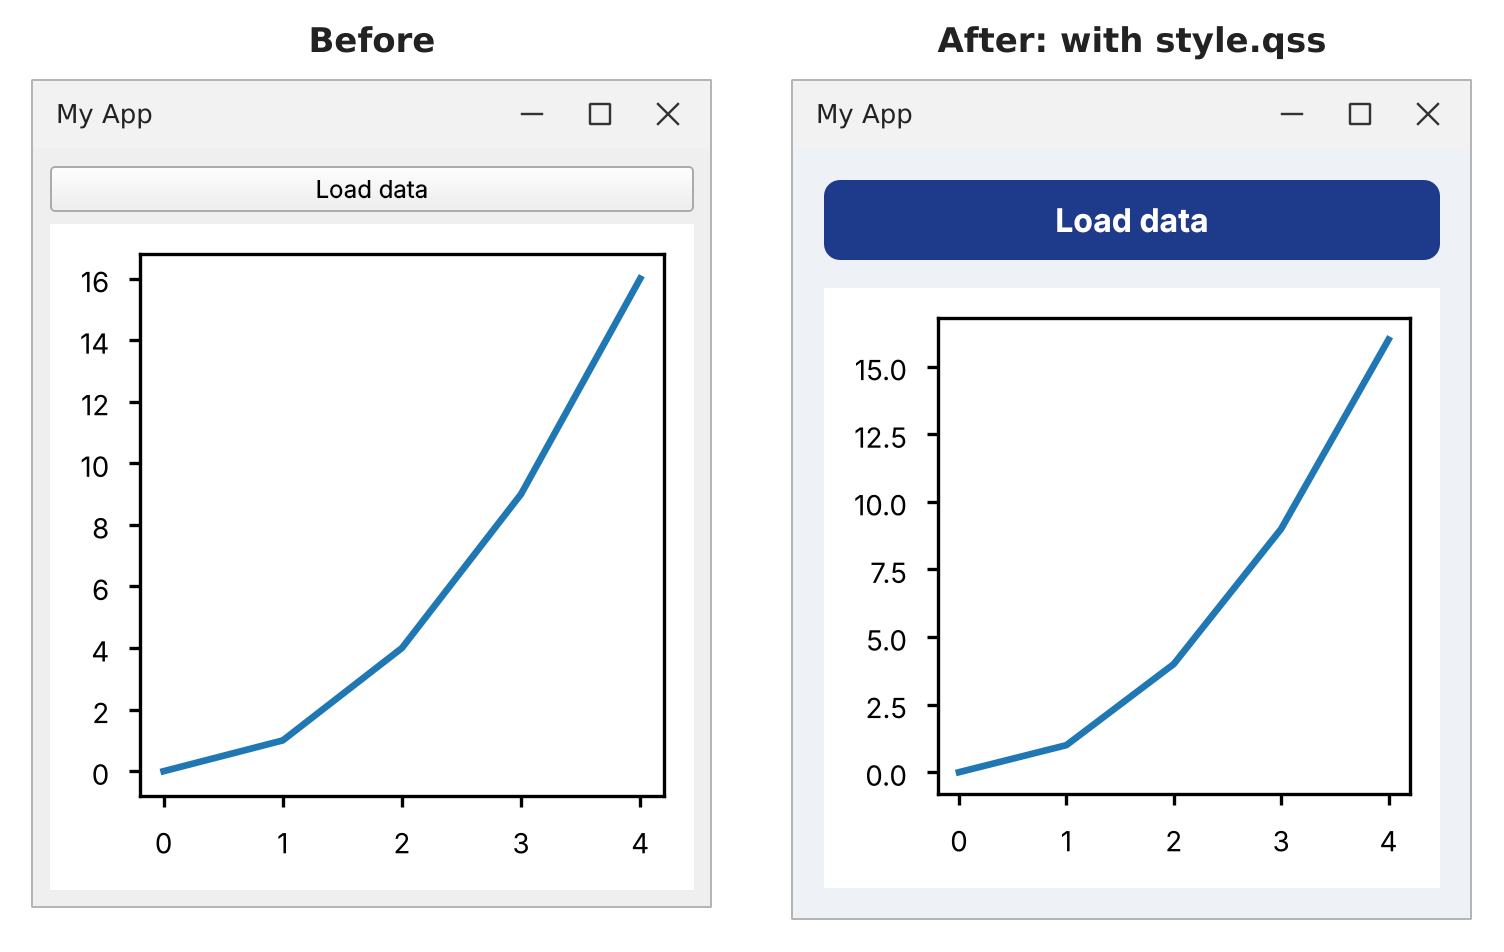
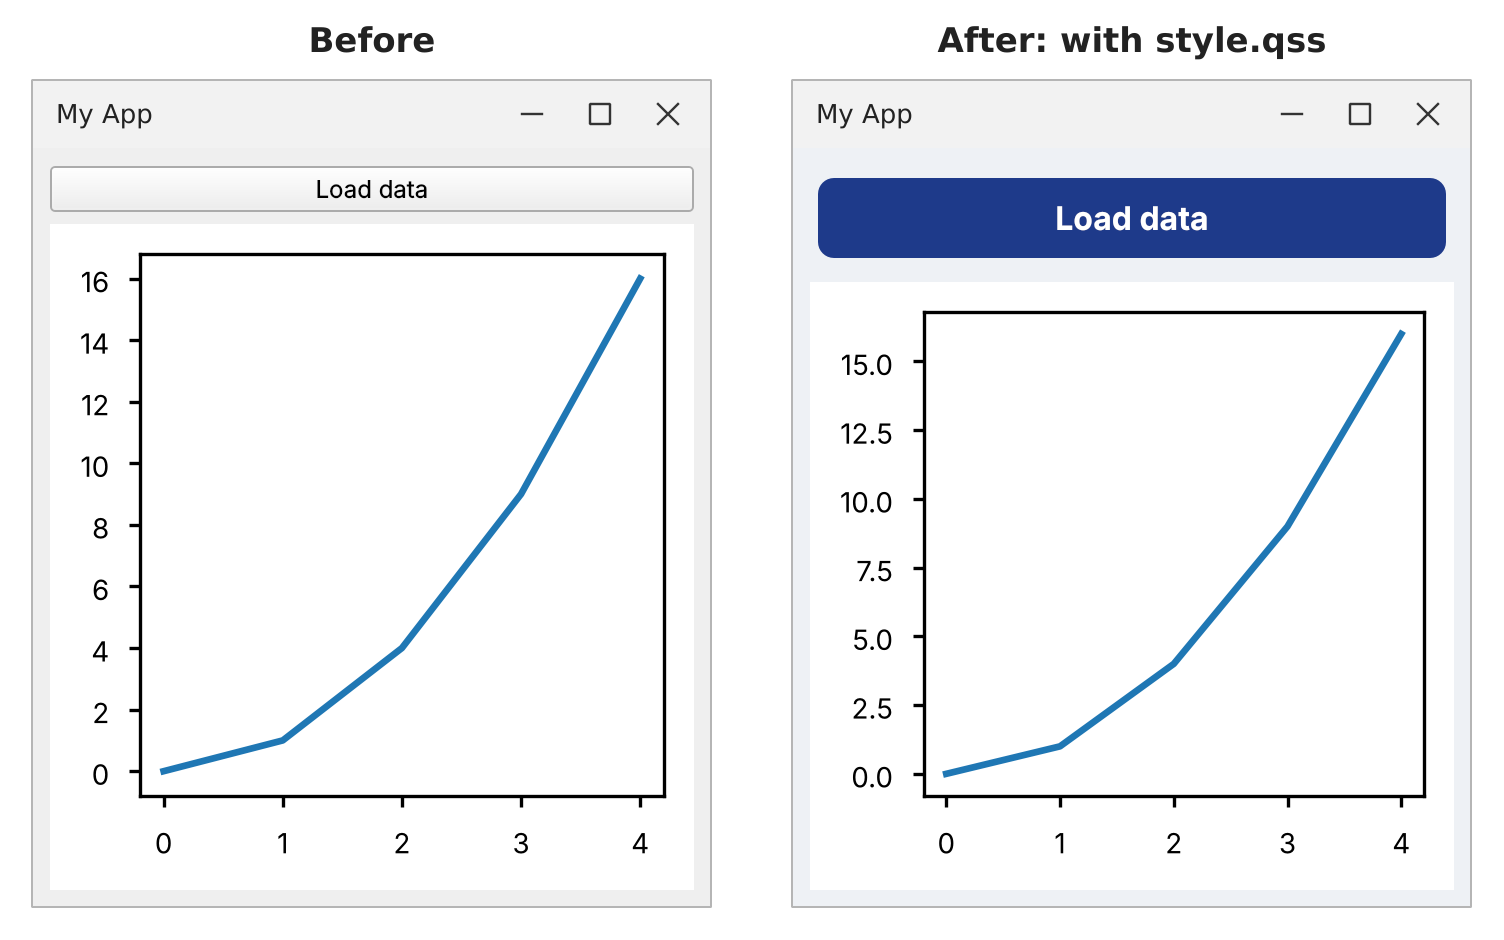
Starter GUI prompts: before/after image with no Python changes, show style.qss
Claude-Session: https://claude.ai/code/session_01TSvAdkHwYUK1dFMohWex9P

diff --git a/content/he/topics/good_prompts.md b/content/he/topics/good_prompts.md
@@ -197,7 +197,28 @@ if __name__ == "__main__":
 
 ![חלון השלד לפני פרומפט העיצוב, ואחריו עם style.qss](content/images/prompt_design_before_after_he.png)
 
-קוד ה-Python זהה בשני החלונות. רק הקובץ `style.qss` נוסף ונטען.
+קוד ה-Python זהה בשני החלונות. רק הקובץ `style.qss` נוסף ונטען. זה הקובץ:
+
+```css
+QMainWindow {
+    background-color: #eef1f5;
+}
+QWidget {
+    font-size: 12pt;
+}
+QPushButton {
+    background-color: #1e3a8a;
+    color: white;
+    border: none;
+    border-radius: 8px;
+    padding: 10px 18px;
+    margin: 6px 4px;
+    font-weight: bold;
+}
+QPushButton:hover {
+    background-color: #3b82f6;
+}
+```
 
 עוד דברים שאפשר לבקש: ערכת נושא כהה, גופן מסוים, צבע בולט לכפתור חשוב אחד (תנו לו שם עם `setObjectName` ועצבו אותו עם `#name`), או מסגרת סביב אזור הגרף.
 

diff --git a/content/topics/good_prompts.md b/content/topics/good_prompts.md
@@ -175,7 +175,28 @@ If you already know what you want, say it. Every detail you give is a decision t
 
 ![The starter window before the design prompt, and after it with style.qss](content/images/prompt_design_before_after.png)
 
-The Python code is the same in both windows. Only `style.qss` was added and loaded.
+The Python code is the same in both windows. Only `style.qss` was added and loaded. This is the file:
+
+```css
+QMainWindow {
+    background-color: #eef1f5;
+}
+QWidget {
+    font-size: 12pt;
+}
+QPushButton {
+    background-color: #1e3a8a;
+    color: white;
+    border: none;
+    border-radius: 8px;
+    padding: 10px 18px;
+    margin: 6px 4px;
+    font-weight: bold;
+}
+QPushButton:hover {
+    background-color: #3b82f6;
+}
+```
 
 Other things you can ask for: a dark theme, a specific font, an accent color for one important button (give it a name with `setObjectName` and style it with `#name`), or a border around the graph area.
 
